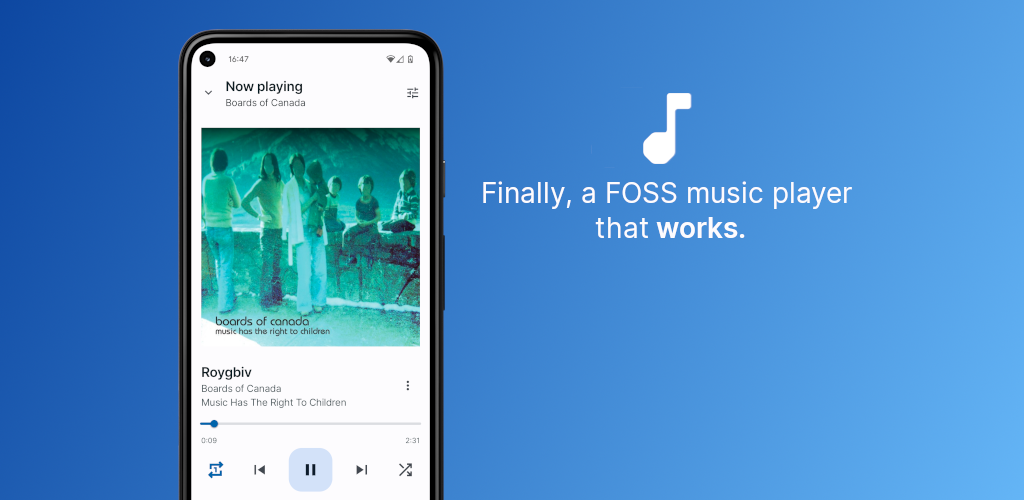
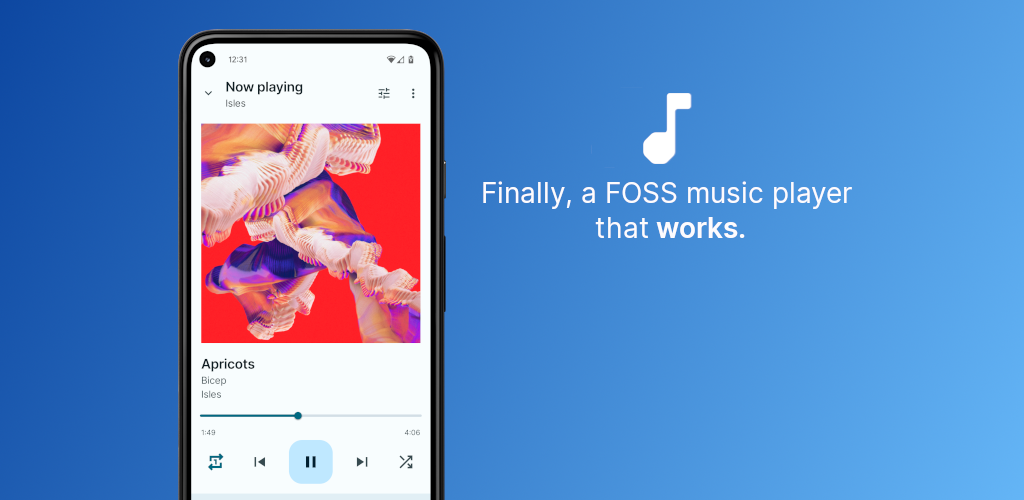
ui: update shots
Update the screenshots and feature graphic to reflect app changes.

Changed region(s): [[0.1875, 0.09, 0.4375, 1.0], [0.2188, 0.15, 0.3125, 0.21], [0.1875, 0.06, 0.25, 0.12]]

diff --git a/app/src/main/java/org/oxycblt/auxio/home/HomeViewModel.kt b/app/src/main/java/org/oxycblt/auxio/home/HomeViewModel.kt
@@ -94,14 +94,13 @@ class HomeViewModel(application: Application) :
     }
 
     /** Get the specific sort for the given [DisplayMode]. */
-    fun getSortForDisplay(displayMode: DisplayMode): Sort {
-        return when (displayMode) {
+    fun getSortForDisplay(displayMode: DisplayMode) =
+        when (displayMode) {
             DisplayMode.SHOW_SONGS -> settings.libSongSort
             DisplayMode.SHOW_ALBUMS -> settings.libAlbumSort
             DisplayMode.SHOW_ARTISTS -> settings.libArtistSort
             DisplayMode.SHOW_GENRES -> settings.libGenreSort
         }
-    }
 
     /** Update the currently displayed item's [Sort]. */
     fun updateCurrentSort(sort: Sort) {

diff --git a/app/src/main/java/org/oxycblt/auxio/home/list/ArtistListFragment.kt b/app/src/main/java/org/oxycblt/auxio/home/list/ArtistListFragment.kt
@@ -37,7 +37,7 @@ import org.oxycblt.auxio.util.formatDurationMs
 
 /**
  * A [HomeListFragment] for showing a list of [Artist]s.
- * @author
+ * @author OxygenCobalt
  */
 class ArtistListFragment : HomeListFragment<Artist>() {
     private val homeAdapter = ArtistAdapter(this)

diff --git a/app/src/main/java/org/oxycblt/auxio/home/list/GenreListFragment.kt b/app/src/main/java/org/oxycblt/auxio/home/list/GenreListFragment.kt
@@ -37,7 +37,7 @@ import org.oxycblt.auxio.util.formatDurationMs
 
 /**
  * A [HomeListFragment] for showing a list of [Genre]s.
- * @author
+ * @author OxygenCobalt
  */
 class GenreListFragment : HomeListFragment<Genre>() {
     private val homeAdapter = GenreAdapter(this)

diff --git a/app/src/main/java/org/oxycblt/auxio/home/list/AlbumListFragment.kt b/app/src/main/java/org/oxycblt/auxio/home/list/AlbumListFragment.kt
@@ -40,7 +40,7 @@ import org.oxycblt.auxio.util.secsToMs
 
 /**
  * A [HomeListFragment] for showing a list of [Album]s.
- * @author
+ * @author OxygenCobalt
  */
 class AlbumListFragment : HomeListFragment<Album>() {
     private val homeAdapter = AlbumAdapter(this)

diff --git a/app/src/main/java/org/oxycblt/auxio/home/list/SongListFragment.kt b/app/src/main/java/org/oxycblt/auxio/home/list/SongListFragment.kt
@@ -41,7 +41,7 @@ import org.oxycblt.auxio.util.secsToMs
 
 /**
  * A [HomeListFragment] for showing a list of [Song]s.
- * @author
+ * @author OxygenCobalt
  */
 class SongListFragment : HomeListFragment<Song>() {
     private val homeAdapter = SongAdapter(this)

diff --git a/CHANGELOG.md b/CHANGELOG.md
@@ -7,6 +7,7 @@
     - Search and library now show playing indicators
     - Playing indicators are now animated when playback is ongoing
 - Added smooth seeking
+- Moved the "more" button in the playback view back to the top
 
 #### What's Fixed
 - Fixed issue where fast scroller popup would not appear
